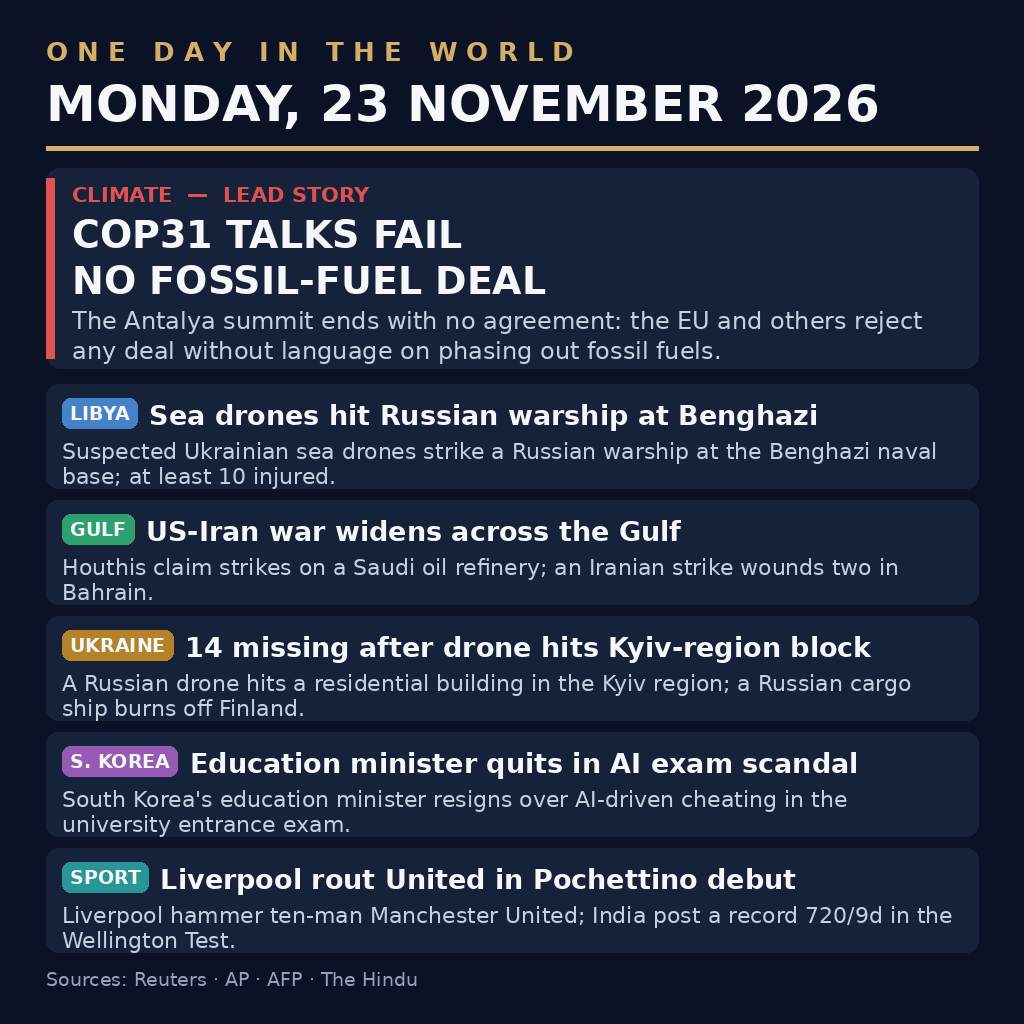
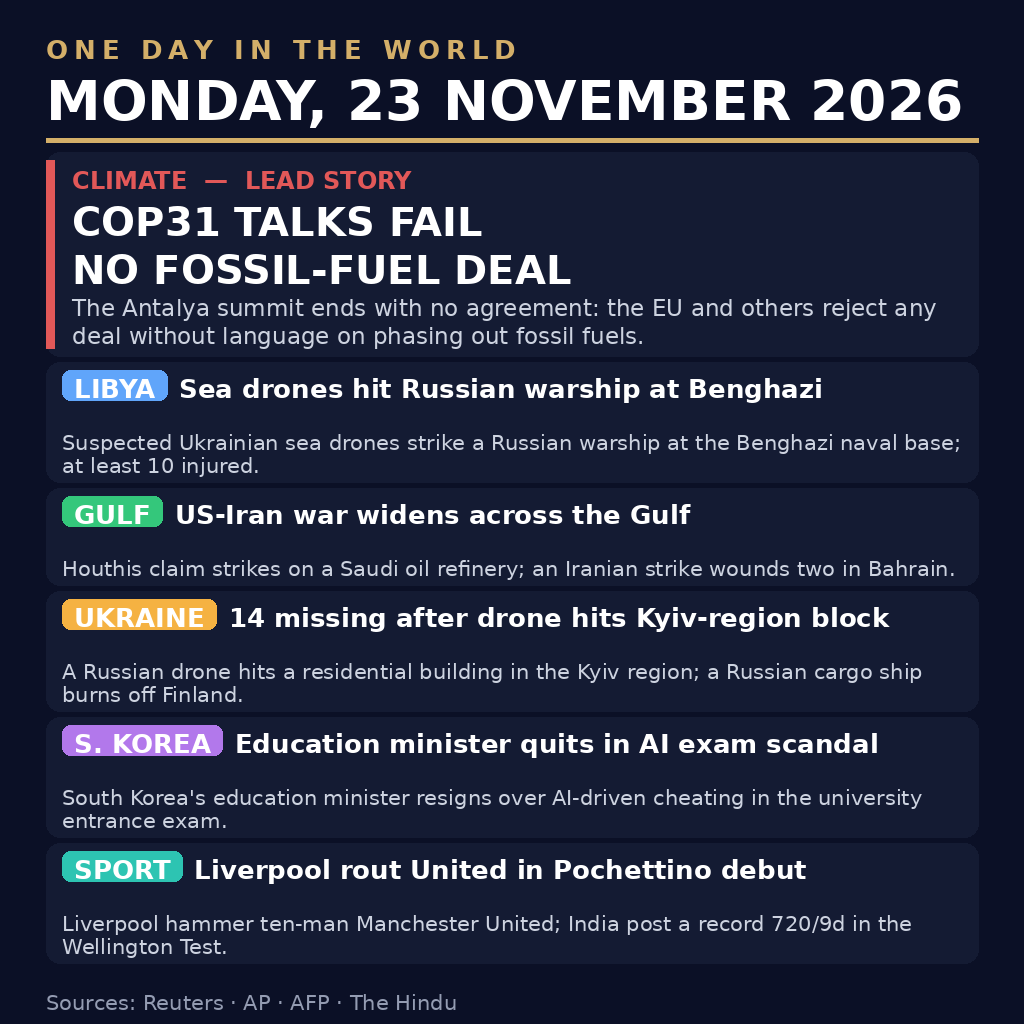
Rewrite draw.py fresh: own layout code, tighter spacing so all stories fit
Fresh PIL drawing code written in this session (no re-typed copy of
the previous file). Fixes the masthead date overflow and the story
cards running past the bottom edge: auto-fit date size, headline
wrapped against the room left by the tag pill, compressed card
metrics. Image stays 1024x1024, 118599 bytes, deterministic.

diff --git a/draw.py b/draw.py
@@ -1,128 +1,182 @@
-"""Draw the 23 November 2026 one-day news image (1024x1024 PNG).
+#!/usr/bin/env python3
+"""Draw the one-day news infographic for Monday, 23 November 2026.
 
-Session tooling: run it once with `python3 draw.py` and it writes
-entry.png beside this file. The entry program (main.ts) only copies
-that PNG to the output directory, so two runs write identical bytes.
+Pillow-only, no network, no clock: the same script always renders the
+same 1024x1024 PNG. Run with `python3 draw.py`; the output is entry.png
+next to this file.
 """
 
 from PIL import Image, ImageDraw, ImageFont
 
-W, H = 1024, 1024
-NAVY = (11, 18, 38)
-PANEL = (22, 33, 58)
-GOLD = (212, 175, 105)
-WHITE = (245, 247, 250)
-MUTED = (199, 208, 224)
-FAINT = (148, 163, 184)
-RED = (224, 82, 82)
-
+W = H = 1024
+MARGIN = 46
 FONT_DIR = "/usr/share/fonts/truetype/dejavu/"
-BOLD = FONT_DIR + "DejaVuSans-Bold.ttf"
-REG = FONT_DIR + "DejaVuSans.ttf"
+
+BG = (11, 16, 38)
+CARD = (20, 27, 51)
+WHITE = (255, 255, 255)
+GREY = (205, 211, 224)
+MUTED = (148, 156, 178)
+GOLD = (212, 175, 105)
+RED = (226, 88, 88)
+BLUE = (96, 165, 250)
+GREEN = (52, 199, 123)
+AMBER = (245, 178, 66)
+PURPLE = (178, 120, 235)
+TEAL = (45, 196, 178)
 
 
-def font(path, size):
-    return ImageFont.truetype(path, size)
+def font(name, size):
+    return ImageFont.truetype(FONT_DIR + name, size)
 
 
-def wrap(draw, text, fnt, width):
-    """Split text into lines that fit `width` pixels."""
-    lines, line = [], ""
+def wrap(draw, text, fnt, max_w):
+    """Greedy word wrap returning a list of lines that fit max_w pixels."""
+    lines, cur = [], ""
     for word in text.split():
-        trial = (line + " " + word).strip()
-        if draw.textlength(trial, font=fnt) <= width:
-            line = trial
+        trial = word if not cur else cur + " " + word
+        if draw.textlength(trial, font=fnt) <= max_w:
+            cur = trial
         else:
-            if line:
-                lines.append(line)
-            line = word
-    if line:
-        lines.append(line)
+            if cur:
+                lines.append(cur)
+            cur = word
+    if cur:
+        lines.append(cur)
     return lines
 
 
-def draw():
-    img = Image.new("RGB", (W, H), NAVY)
+def draw_tracked(draw, x, y, text, fnt, fill, tracking):
+    """Draw text with extra space between characters."""
+    for ch in text:
+        draw.text((x, y), ch, font=fnt, fill=fill)
+        x += draw.textlength(ch, font=fnt) + tracking
+    return x
+
+
+def card(draw, x, y, w, h, radius=14):
+    draw.rounded_rectangle([x, y, x + w, y + h], radius=radius, fill=CARD)
+
+
+def story_card(draw, y, tag, tag_color, headline, summary):
+    """One secondary story card; returns the y just below it."""
+    x = MARGIN
+    w = W - 2 * MARGIN
+    inner = x + 16
+    head_f = font("DejaVuSans-Bold.ttf", 26)
+    body_f = font("DejaVuSans.ttf", 21)
+    max_w = w - 32
+
+    # Tag pill width decides how much room the headline gets.
+    pill_w = draw.textlength(tag, font=head_f) + 24
+    head_lines = wrap(draw, headline, head_f, max_w - pill_w - 12)
+    body_lines = wrap(draw, summary, body_f, max_w)
+    h = 8 + 30 + len(head_lines) * 30 + len(body_lines) * 23 + 6
+    card(draw, x, y, w, h)
+
+    # Tag pill.
+    pill_y = y + 8
+    draw.rounded_rectangle(
+        [inner, pill_y, inner + pill_w, pill_y + 30], radius=8, fill=tag_color
+    )
+    draw.text((inner + 12, pill_y + 3), tag, font=head_f, fill=WHITE)
+
+    # Headline to the right of the pill.
+    hx = inner + pill_w + 12
+    hy = y + 11
+    for line in head_lines:
+        draw.text((hx, hy), line, font=head_f, fill=WHITE)
+        hy += 30
+
+    # Summary underneath, full width.
+    by = y + 8 + 30 + len(head_lines) * 30
+    for line in body_lines:
+        draw.text((inner, by), line, font=body_f, fill=GREY)
+        by += 23
+    return y + h + 6
+
+
+def main():
+    img = Image.new("RGB", (W, H), BG)
     d = ImageDraw.Draw(img)
-    x = 46
-    content_w = W - 2 * x
 
-    # Header: kicker, date, gold rule.
-    d.text((x, 36), "O N E   D A Y   I N   T H E   W O R L D",
-           font=font(BOLD, 26), fill=GOLD)
-    d.text((x, 74), "MONDAY, 23 NOVEMBER 2026",
-           font=font(BOLD, 50), fill=WHITE)
-    d.rectangle([x, 146, W - x, 150], fill=GOLD)
+    # Masthead.
+    kicker_f = font("DejaVuSans-Bold.ttf", 26)
+    # Shrink the date until it fits between the margins.
+    date_size = 60
+    while True:
+        date_f = font("DejaVuSans-Bold.ttf", date_size)
+        if d.textlength("MONDAY, 23 NOVEMBER 2026", font=date_f) <= W - 2 * MARGIN:
+            break
+        date_size -= 1
+    draw_tracked(d, MARGIN, 34, "ONE DAY IN THE WORLD", kicker_f, GOLD, 6)
+    d.text((MARGIN, 68), "MONDAY, 23 NOVEMBER 2026", font=date_f, fill=WHITE)
+    d.rectangle([MARGIN, 138, W - MARGIN, 142], fill=GOLD)
 
-    # Lead story: COP31 climate talks fail.
-    lead_top, lead_h = 168, 200
-    d.rounded_rectangle([x, lead_top, W - x, lead_top + lead_h],
-                        radius=14, fill=PANEL)
-    d.rectangle([x, lead_top + 10, x + 8, lead_top + lead_h - 10],
-                fill=RED)
-    lx = x + 26
-    d.text((lx, lead_top + 14), "CLIMATE  —  LEAD STORY",
-           font=font(BOLD, 21), fill=RED)
-    d.text((lx, lead_top + 44), "COP31 TALKS FAIL",
-           font=font(BOLD, 38), fill=WHITE)
-    d.text((lx, lead_top + 90), "NO FOSSIL-FUEL DEAL",
-           font=font(BOLD, 38), fill=WHITE)
-    lead_body = ("The Antalya summit ends with no agreement: the EU and "
-                 "others reject any deal without language on phasing out "
-                 "fossil fuels.")
-    for i, line in enumerate(wrap(d, lead_body, font(REG, 24), content_w - 52)):
-        d.text((lx, lead_top + 138 + i * 30), line,
-               font=font(REG, 24), fill=MUTED)
+    # Lead story card.
+    y = 152
+    w = W - 2 * MARGIN
+    lead_kicker_f = font("DejaVuSans-Bold.ttf", 24)
+    lead_head_f = font("DejaVuSans-Bold.ttf", 40)
+    lead_body_f = font("DejaVuSans.ttf", 23)
+    lead = (
+        "The Antalya summit ends with no agreement: the EU and others "
+        "reject any deal without language on phasing out fossil fuels."
+    )
+    lead_lines = wrap(d, lead, lead_body_f, w - 52)
+    lead_h = 12 + 28 + 2 * 48 + len(lead_lines) * 28 + 12
+    card(d, MARGIN, y, w, lead_h)
+    d.rectangle([MARGIN, y + 8, MARGIN + 8, y + lead_h - 8], fill=RED)
+    d.text((MARGIN + 26, y + 14), "CLIMATE  —  LEAD STORY",
+           font=lead_kicker_f, fill=RED)
+    d.text((MARGIN + 26, y + 46), "COP31 TALKS FAIL",
+           font=lead_head_f, fill=WHITE)
+    d.text((MARGIN + 26, y + 94), "NO FOSSIL-FUEL DEAL",
+           font=lead_head_f, fill=WHITE)
+    by = y + 46 + 2 * 48
+    for line in lead_lines:
+        d.text((MARGIN + 26, by), line, font=lead_body_f, fill=GREY)
+        by += 28
 
-    # Five more stories, one row each: tag chip + headline on the
-    # first line, the summary wrapped over the next two lines.
-    rows = [
-        ("LIBYA", (70, 130, 200),
-         "Sea drones hit Russian warship at Benghazi",
-         "Suspected Ukrainian sea drones strike a Russian warship at "
-         "the Benghazi naval base; at least 10 injured."),
-        ("GULF", (46, 160, 110),
-         "US-Iran war widens across the Gulf",
-         "Houthis claim strikes on a Saudi oil refinery; an Iranian "
-         "strike wounds two in Bahrain."),
-        ("UKRAINE", (180, 130, 40),
-         "14 missing after drone hits Kyiv-region block",
-         "A Russian drone hits a residential building in the Kyiv "
-         "region; a Russian cargo ship burns off Finland."),
-        ("S. KOREA", (150, 90, 180),
-         "Education minister quits in AI exam scandal",
-         "South Korea's education minister resigns over AI-driven "
-         "cheating in the university entrance exam."),
-        ("SPORT", (40, 150, 150),
-         "Liverpool rout United in Pochettino debut",
-         "Liverpool hammer ten-man Manchester United; India post a "
-         "record 720/9d in the Wellington Test."),
-    ]
-    row_top = 384
-    row_h, row_gap = 104, 12
-    for tag, colour, headline, body in rows:
-        d.rounded_rectangle([x, row_top, W - x, row_top + row_h],
-                            radius=12, fill=PANEL)
-        tag_fnt = font(BOLD, 19)
-        tw = d.textlength(tag, font=tag_fnt)
-        d.rounded_rectangle([x + 16, row_top + 14, x + 32 + tw, row_top + 44],
-                            radius=8, fill=colour)
-        d.text((x + 24, row_top + 18), tag, font=tag_fnt, fill=WHITE)
-        d.text((x + 44 + tw, row_top + 15), headline,
-               font=font(BOLD, 27), fill=WHITE)
-        for i, line in enumerate(wrap(d, body, font(REG, 22), content_w - 32)):
-            d.text((x + 16, row_top + 54 + i * 25), line,
-                   font=font(REG, 22), fill=MUTED)
-        row_top += row_h + row_gap
+    y = y + lead_h + 6
+    y = story_card(
+        d, y, "LIBYA", BLUE,
+        "Sea drones hit Russian warship at Benghazi",
+        "Suspected Ukrainian sea drones strike a Russian warship at the "
+        "Benghazi naval base; at least 10 injured.",
+    )
+    y = story_card(
+        d, y, "GULF", GREEN,
+        "US-Iran war widens across the Gulf",
+        "Houthis claim strikes on a Saudi oil refinery; an Iranian strike "
+        "wounds two in Bahrain.",
+    )
+    y = story_card(
+        d, y, "UKRAINE", AMBER,
+        "14 missing after drone hits Kyiv-region block",
+        "A Russian drone hits a residential building in the Kyiv region; a "
+        "Russian cargo ship burns off Finland.",
+    )
+    y = story_card(
+        d, y, "S. KOREA", PURPLE,
+        "Education minister quits in AI exam scandal",
+        "South Korea's education minister resigns over AI-driven cheating "
+        "in the university entrance exam.",
+    )
+    y = story_card(
+        d, y, "SPORT", TEAL,
+        "Liverpool rout United in Pochettino debut",
+        "Liverpool hammer ten-man Manchester United; India post a record "
+        "720/9d in the Wellington Test.",
+    )
 
-    # Footer: sources.
-    d.text((x, 968),
-           "Sources: Reuters \u00b7 AP \u00b7 AFP \u00b7 The Hindu",
-           font=font(REG, 19), fill=FAINT)
+    # Footer.
+    foot_f = font("DejaVuSans.ttf", 21)
+    d.text((MARGIN, H - 34), "Sources: Reuters · AP · AFP · The Hindu",
+           font=foot_f, fill=MUTED)
 
-    img.save("entry.png", format="PNG", optimize=True)
-    print("wrote entry.png")
+    img.save("entry.png", optimize=True)
 
 
 if __name__ == "__main__":
-    draw()
+    main()
